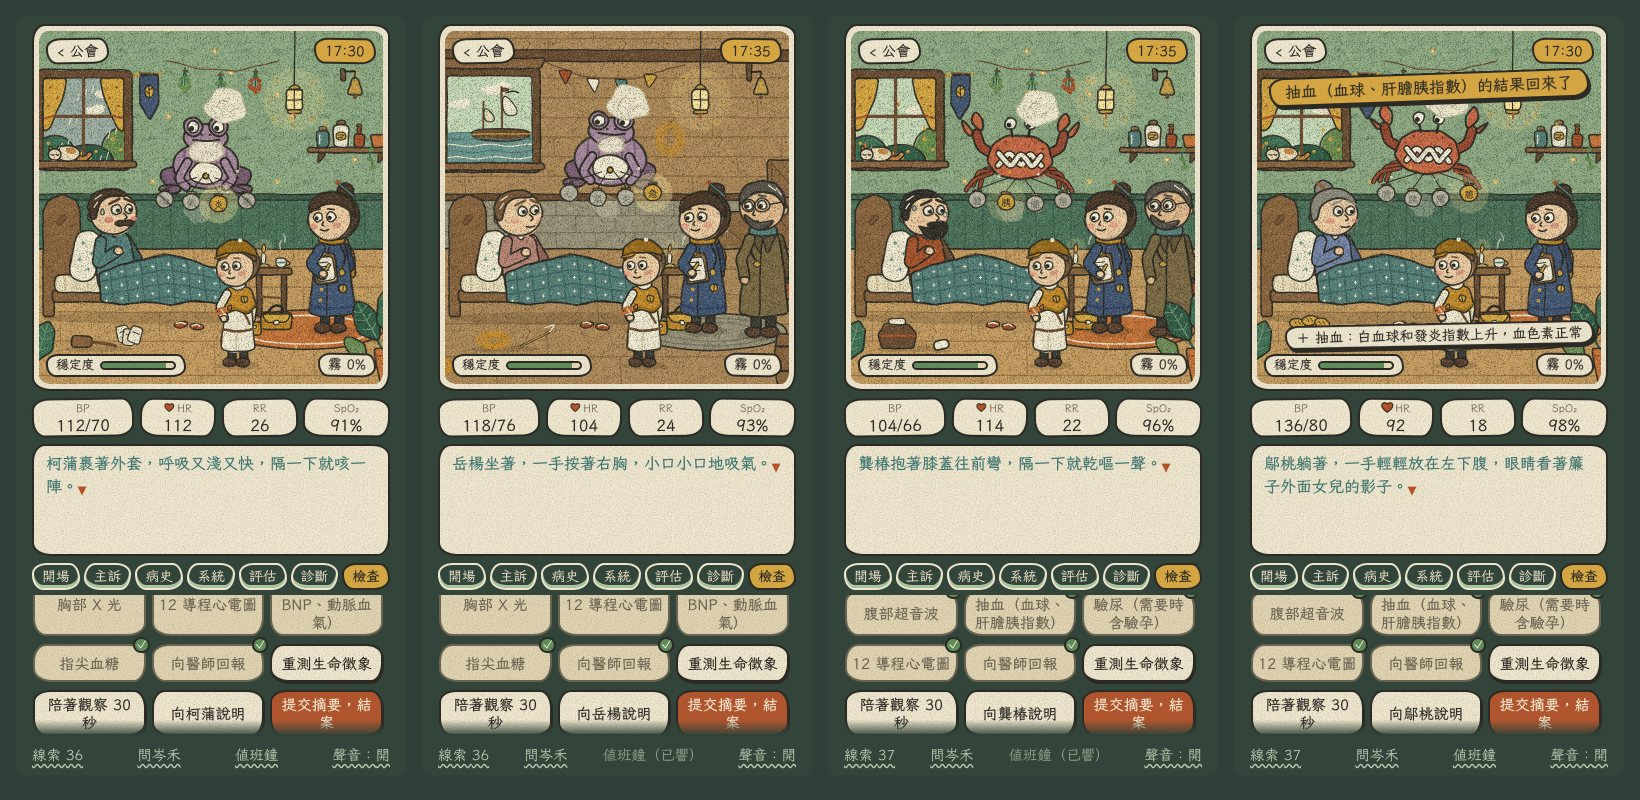
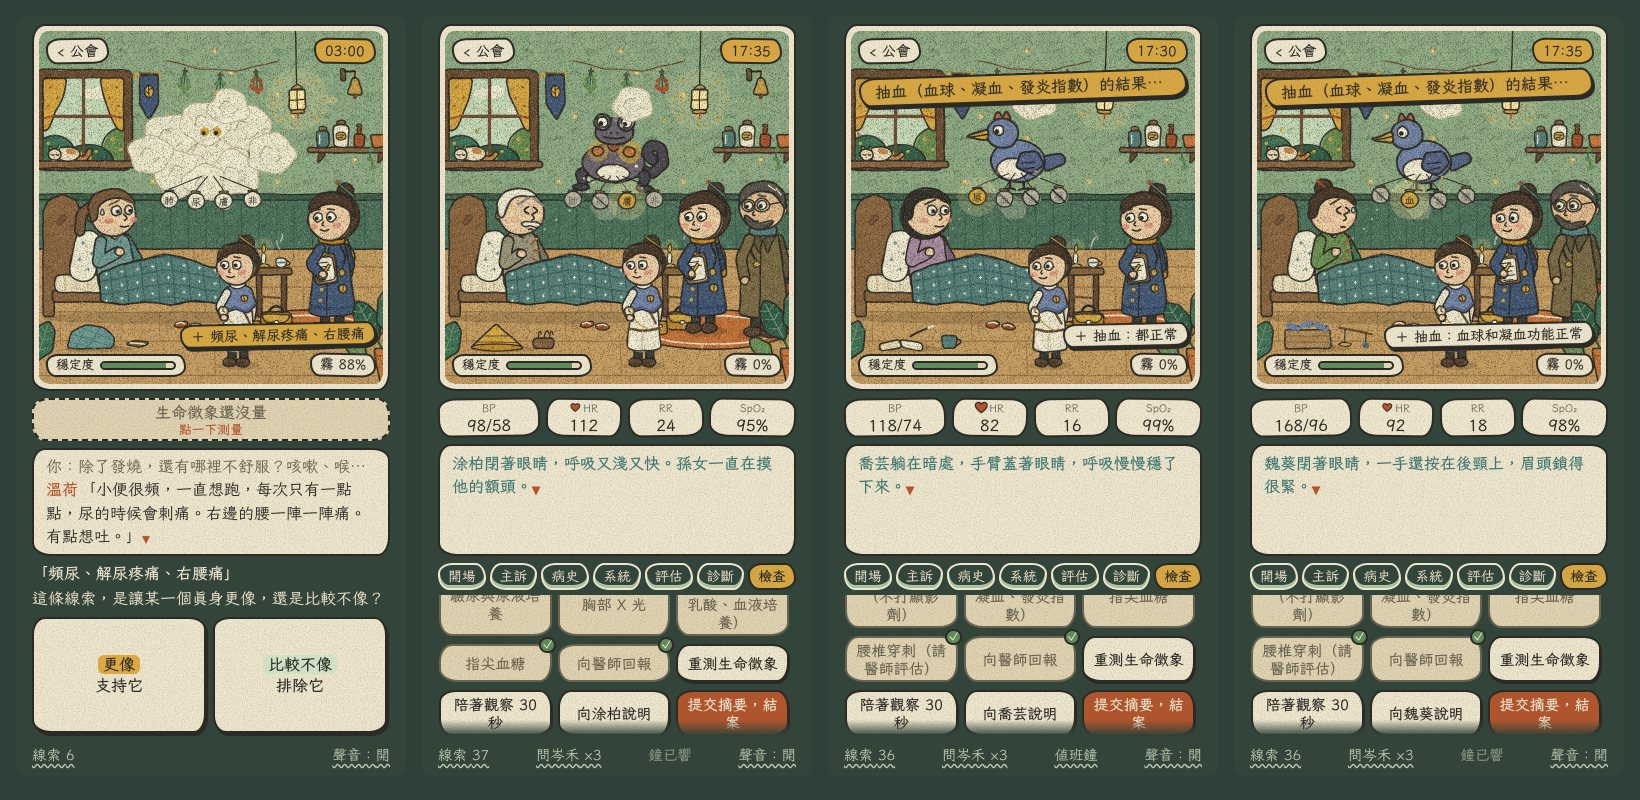
README 的截圖換成第三章
升階之後解讀線索的畫面，還有餘燼蜥、篤篤鳥和三位新病人。

Claude-Session: https://claude.ai/code/session_01WAbUj97tzXA92wFCG624vk

diff --git a/app/README.md b/app/README.md
@@ -2,7 +2,7 @@
 
 繪本畫風的可以玩的版本。三章、五隻症影、十六張委託：第一章是胸痛（鐵翅蛾）的四位病人，第二章是喘（風箱蛙）和腹痛（結繩蟹）各四位，第三章是發燒（餘燼蜥）和頭痛（篤篤鳥）各兩位。前兩章每隻症影的四個真身都有一位病人；第三章還有四個真身沒有病人。第二章走完會升一階、少一層提示。
 
-![第二章後來補上的四位病人：柯蒲（肺炎）、岳楊（氣胸，出診到碼頭）、龔椿（胰臟炎）、鄔桃（憩室炎）](../docs/art/app-prototype.jpg)
+![第三章：升階之後線索的方向要自己選；餘燼蜥（發燒）和涂柏、篤篤鳥（頭痛）和喬芸、魏葵](../docs/art/app-prototype.jpg)
 
 ## 怎麼跑
 

diff --git a/README.md b/README.md
@@ -20,7 +20,7 @@
 
 ## 互動原型
 
-![第二章後來補上的四位病人：柯蒲（肺炎）、岳楊（氣胸，出診到碼頭）、龔椿（胰臟炎）、鄔桃（憩室炎）](docs/art/app-prototype.jpg)
+![第三章：升階之後線索的方向要自己選；餘燼蜥（發燒）和涂柏、篤篤鳥（頭痛）和喬芸、魏葵](docs/art/app-prototype.jpg)
 
 繪本畫風的可以玩的版本。序章之後從六位見習專科護理師裡選一位當主角。
 
